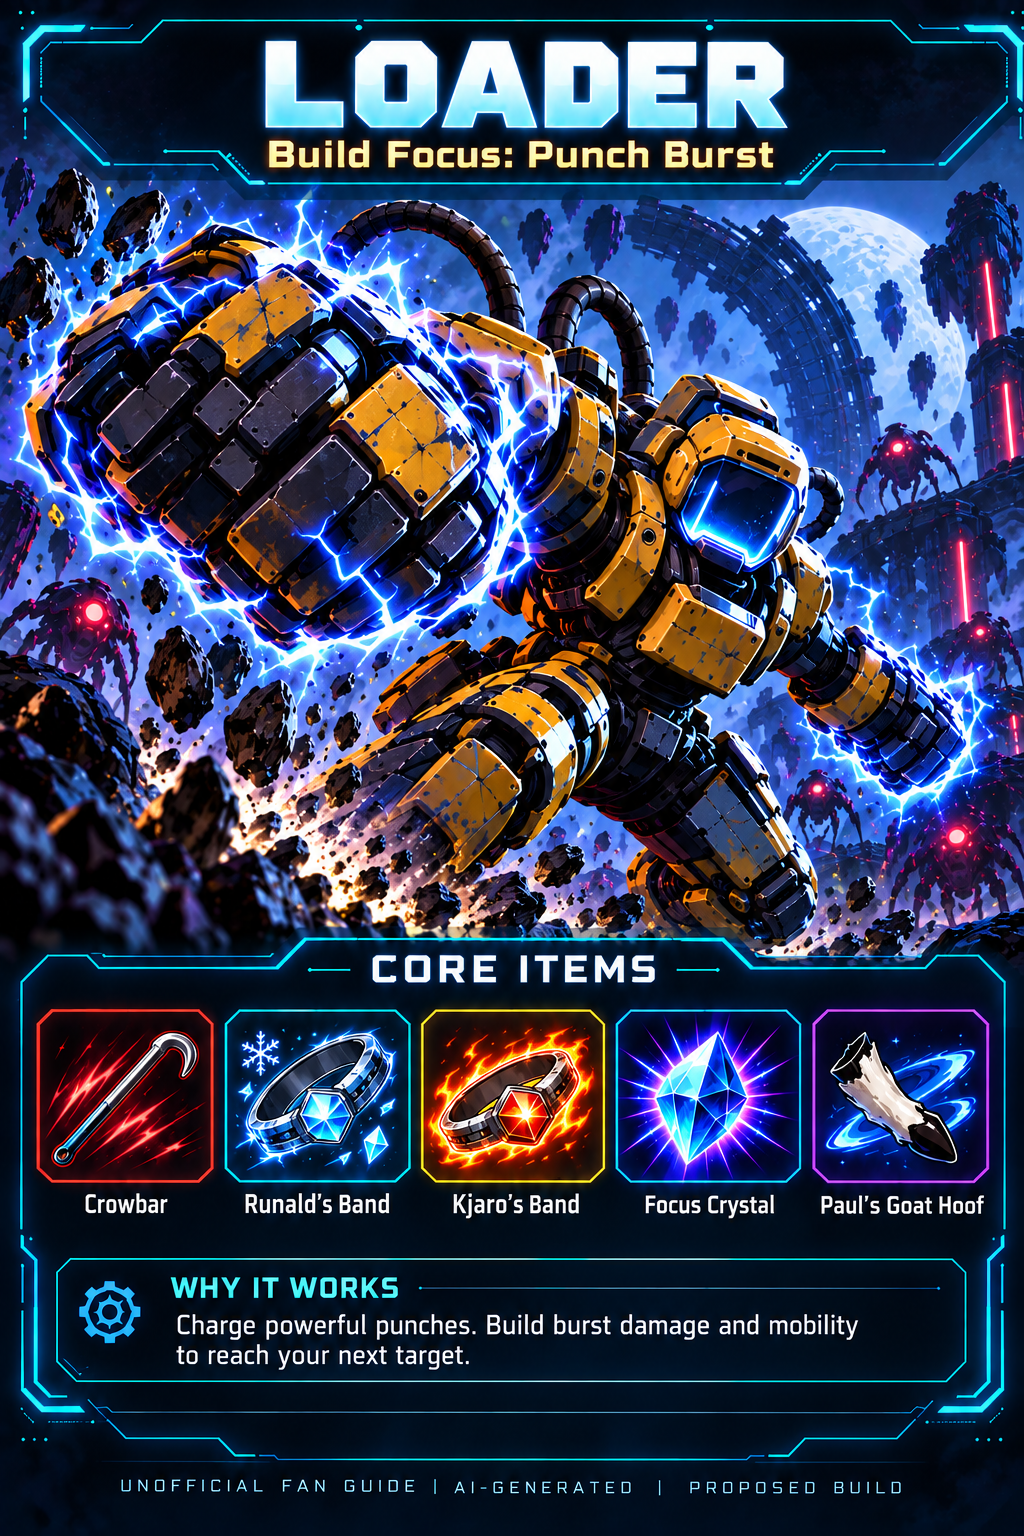
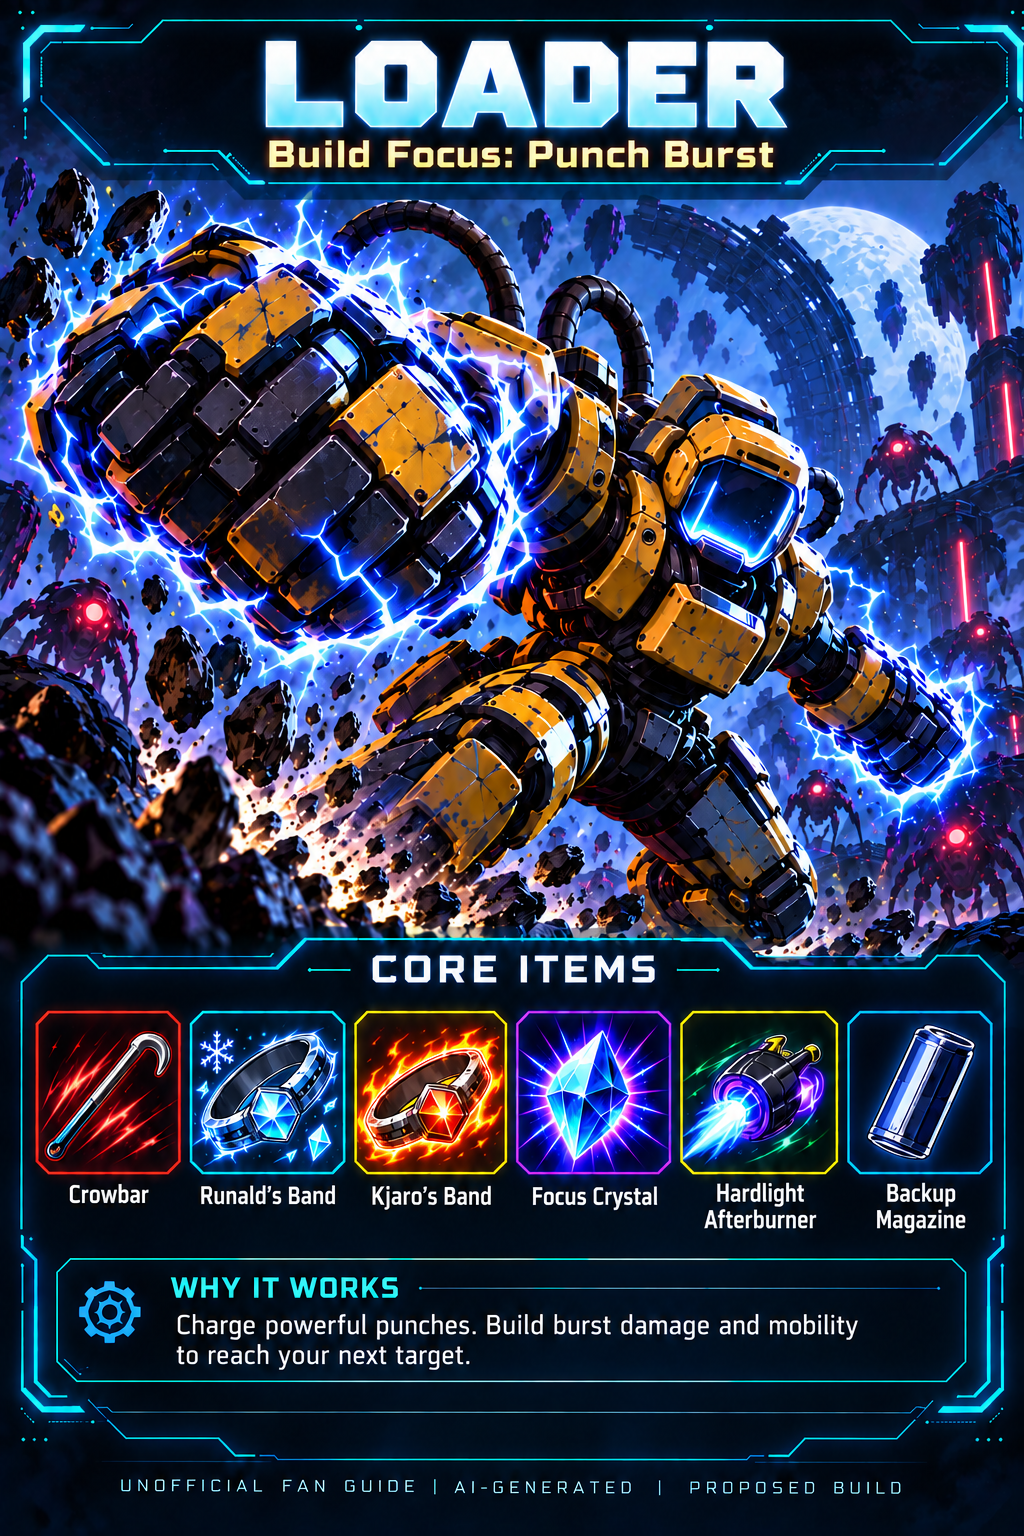
feat: update loader starter infographic documentation with corrected core-item selection and visual review details

diff --git a/docs/image-prompts/loader-starter.md b/docs/image-prompts/loader-starter.md
@@ -6,7 +6,7 @@ Reference 1: original Loader image for subject design. Reference 2: `assets/surv
 
 Research: [Loader](https://riskofrain2.wiki.gg/wiki/Loader), reviewed using indexed wiki excerpts. The brief describes charged punches and mobility without numeric claims; the item selection is a proposed build, not a verified ranking. Item illustrations are generated, not official sprites.
 
-## Exact prompt
+## Initial prompt (superseded core-item selection)
 
 ```text
 Use case: infographic-diagram. Create a portrait 1024x1536 starter survivor infographic for this fan-made Risk of Rain 2 collection.
@@ -16,6 +16,18 @@ Exact text: "LOADER"; "Build Focus: Punch Burst"; "CORE ITEMS"; five evenly spac
 Title must read at thumbnail size. All five names spelled exactly, no additional rankings, no official logos or affiliation claim. This is a starter overview, not a four-tier image.
 ```
 
-## Visual review
+## Initial visual review
 
 Inspected the final 1024 × 1536 PNG: large Loader title and illustration, five legible core-item labels, one explanation box, and the unofficial/AI-generated/proposed-build footer. No tier rows. The gallery and first detail image already use this path; the separate tier-guide path is preserved. Artwork remains excluded from MIT under [ASSET_LICENSES.md](../../ASSET_LICENSES.md).
+
+## Core-item consistency correction
+
+The first version mistakenly selected five items, including Paul's Goat Hoof from the tier guide's Best row. The corrected starter uses exactly the six items in Loader's existing Optimal row: Crowbar, Runald's Band, Kjaro's Band, Focus Crystal, Hardlight Afterburner, and Backup Magazine. The initial prompt above is retained as generation history; it does not describe the current core-item selection.
+
+### Exact edit prompt
+
+Visual review of the corrected 1024 × 1536 PNG confirmed all six labels in the same order as the tier guide's Optimal row, with no Goat Hoof tile. The large survivor illustration, title, explanation, and disclaimer remain. The tier-guide checksum was verified unchanged.
+
+```text
+undefined
+```
